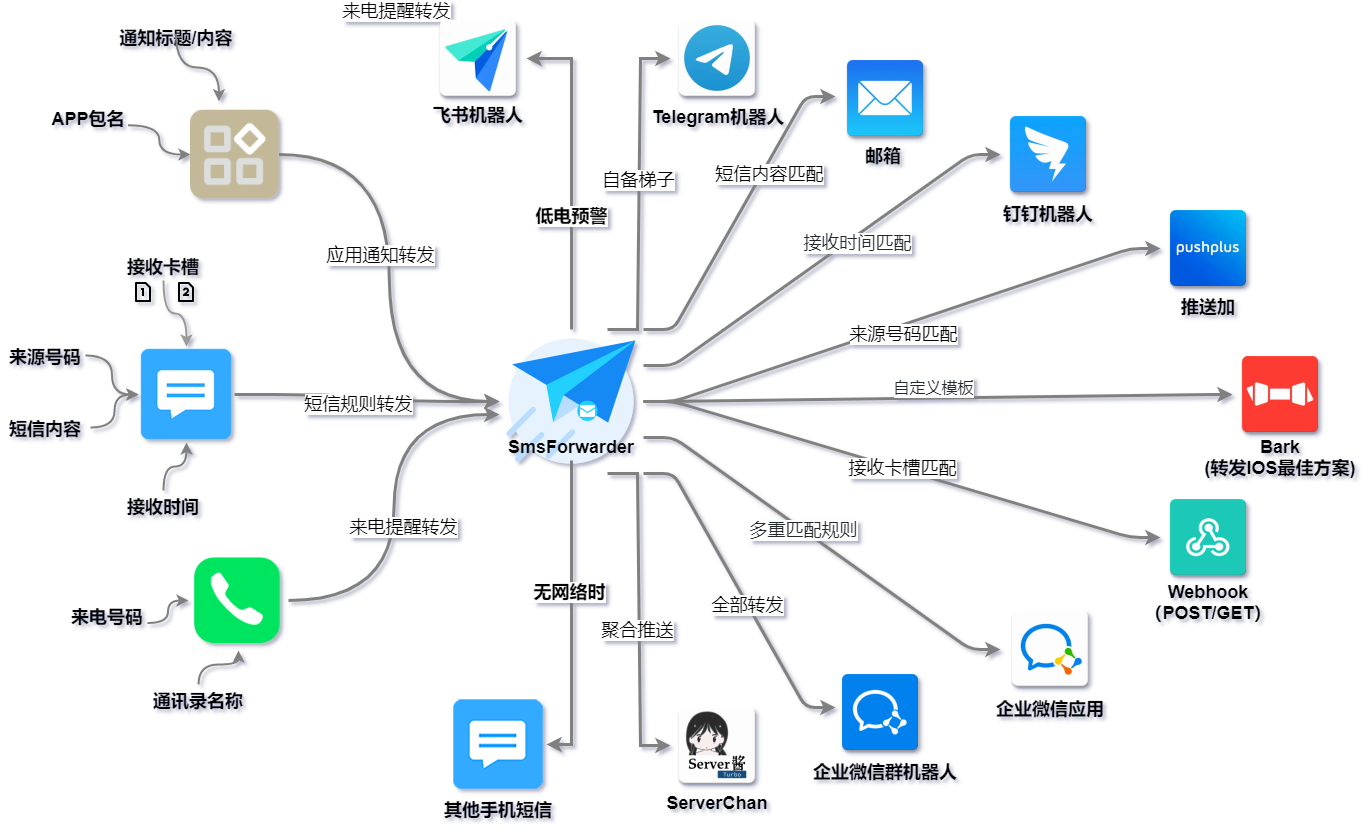
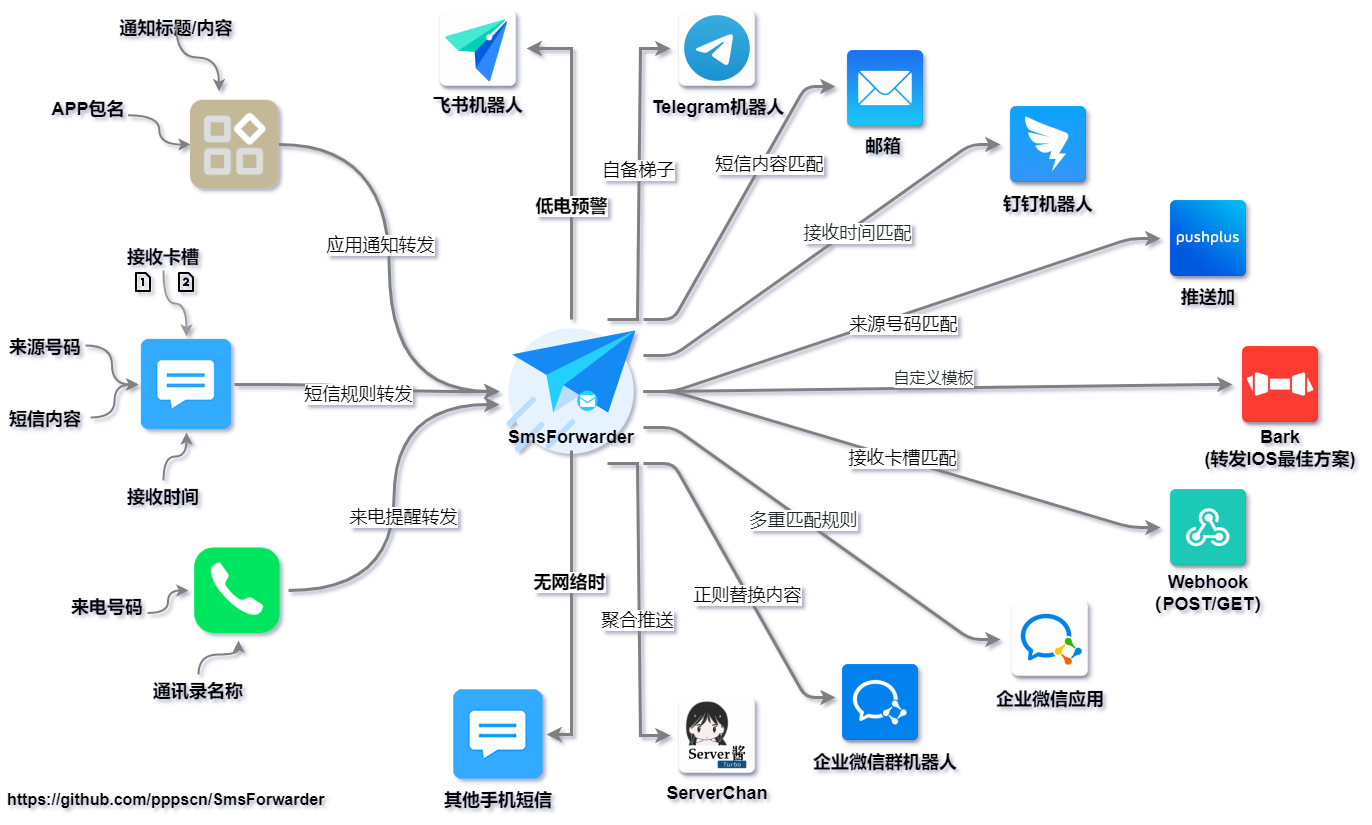
整理：更新readme

diff --git a/README.md b/README.md
@@ -68,7 +68,7 @@
 - [x] 转发到其他手机短信【注意：非免费的，转发短信运营商有收费的，建议没有网络时启用，并设置好内容过滤规则】
 - [x] 在线检测新版本、升级
 - [x] 清理缓存
-- [x] 兼容 Android 5.xx 6.xx、7.xx、8.xx、9.xx、10.xx
+- [x] 兼容 Android 5.xx、6.xx、7.xx、8.xx、9.xx、10.xx、11.xx
 - [x] 支持双卡手机，增加卡槽标识/运营商/手机号(如果能获取的话)
 - [x] 支持多重匹配规则
 - [x] 支持标注卡槽号码(优先使用)、设备信息；自定义转发信息模版
@@ -124,6 +124,7 @@
 + https://github.com/xuexiangjys/XUpdateAPI （在线升级）
 + https://github.com/mailhu/emailkit （邮件发送）
 + https://github.com/alibaba/fastjson (Json解析)
++ https://github.com/getActivity/XXPermissions (权限请求框架)
 + [![GitHub license](https://resources.jetbrains.com/storage/products/company/brand/logos/jb_beam.svg?_ga=2.126618957.1361252949.1638261367-1417196221.1635638144&_gl=1*1pfl3dq*_ga*MTQxNzE5NjIyMS4xNjM1NjM4MTQ0*_ga_V0XZL7QHEB*MTYzODMzMjA4OC43LjAuMTYzODMzMjA5Ny4w)](https://jb.gg/OpenSourceSupport)  (License Certificate for JetBrains All Products Pack)
 
 --------
@@ -196,7 +197,7 @@ Benefit by simplicity:
 
 ### Workflow:
 
-![工作流程](pic/working_principle.png "工作流程")
+![Workflow](pic/working_principle_en.png "Workflow")
 
 ### Features:
 
@@ -268,6 +269,7 @@ Benefit by simplicity:
 + https://github.com/xuexiangjys/XUpdateAPI (online update)
 + https://github.com/mailhu/emailkit (email sending)
 + https://github.com/alibaba/fastjson (json parsing)
++ https://github.com/getActivity/XXPermissions (Permissions)
 + [![GitHub license](https://resources.jetbrains.com/storage/products/company/brand/logos/jb_beam.svg?_ga=2.126618957.1361252949.1638261367-1417196221.1635638144&_gl=1*1pfl3dq*_ga*MTQxNzE5NjIyMS4xNjM1NjM4MTQ0*_ga_V0XZL7QHEB*MTYzODMzMjA4OC43LjAuMTYzODMzMjA5Ny4w)](https://jb.gg/OpenSourceSupport)  (License Certificate for JetBrains All Products Pack)
 
 --------
